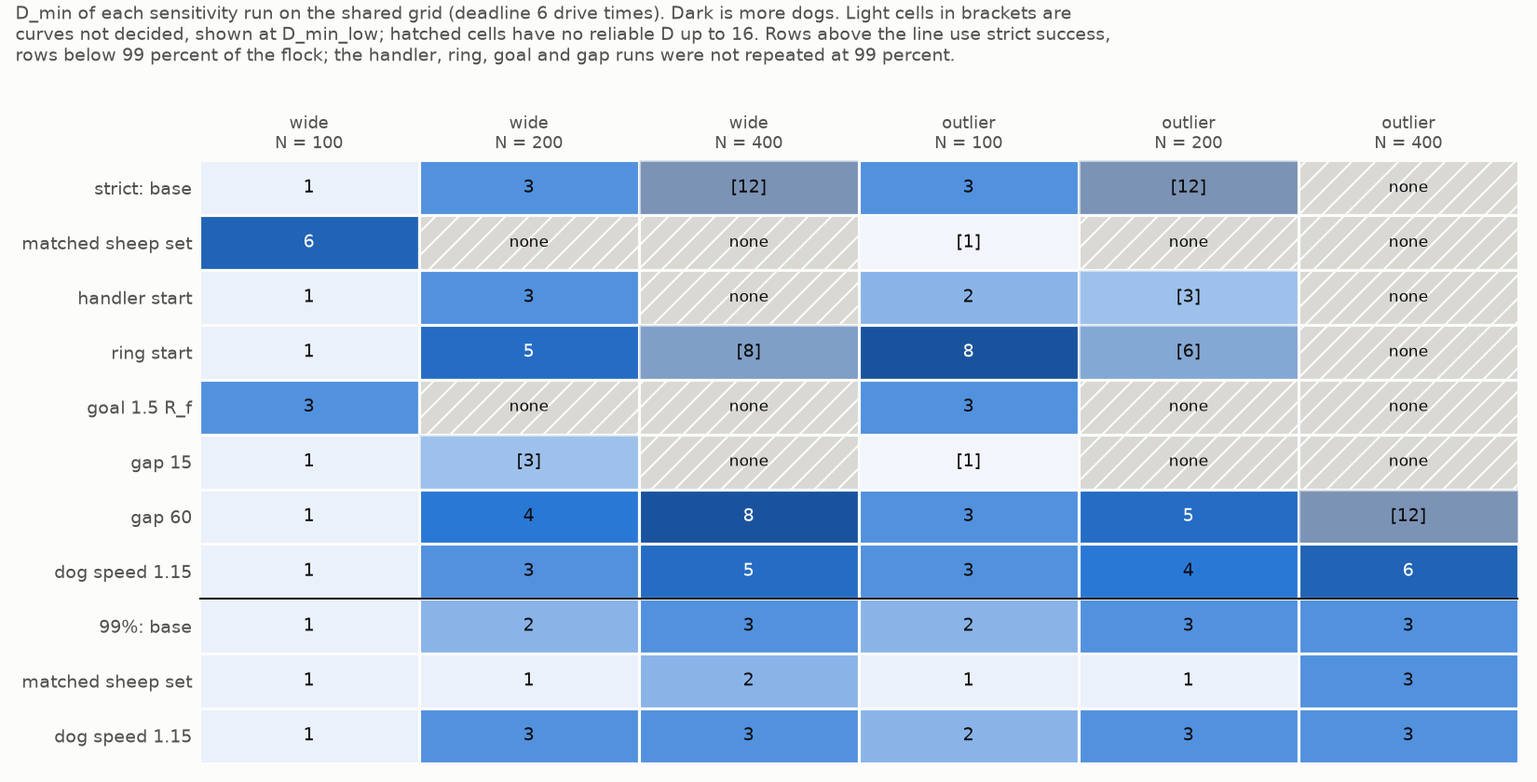
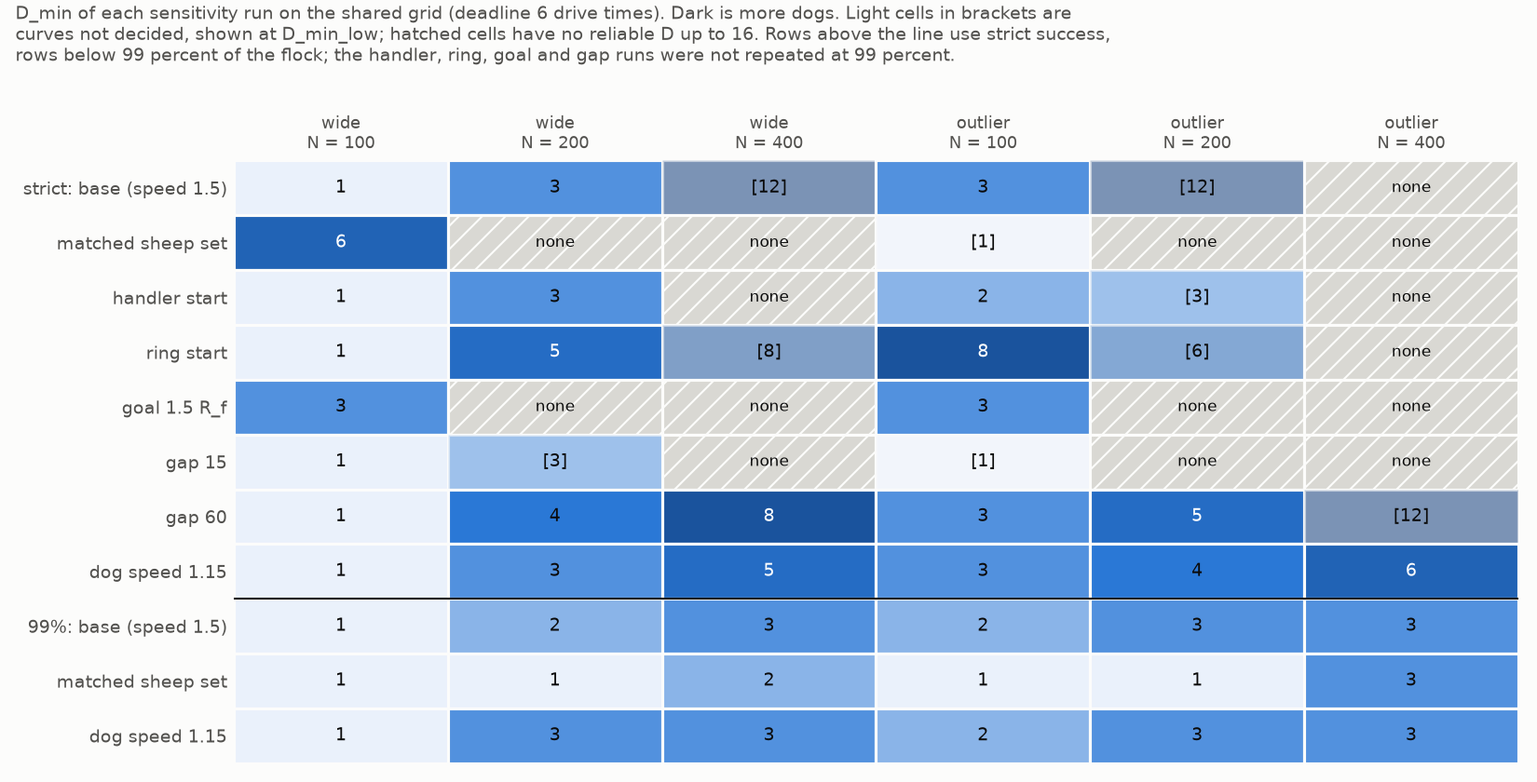
update readme

diff --git a/docs/report/d_min_report_vi.md b/docs/report/d_min_report_vi.md
@@ -1,0 +1,372 @@
+# Quy mô đội tối thiểu để lùa một bầy cừu mô phỏng: Sự phụ thuộc vào kích thước đàn, bố cục khởi tạo, thời hạn và tiêu chí thành công
+
+Dự án HerdSim. Bản thảo ngày 21-10-2026, được tổng hợp từ đề cương nghiên cứu và dữ liệu thực nghiệm ngày 20 và 21-10-2026.
+
+## Tóm tắt (Abstract)
+
+Cần bao nhiêu cá thể chó để lùa một bầy cừu vào mục tiêu trước một thời hạn xác định? Chúng tôi nghiên cứu câu hỏi này thông qua mô phỏng, sử dụng mô hình hành vi cừu của Strömbom et al. (2014) và phần mở rộng đa tác tử (multi-dog) cho thuật toán gom và lùa đàn; trong đó mỗi cá thể chó tự động phụ trách một cá thể cừu tản mác riêng biệt khi thu gom, và chiếm một vị trí xác định trên vòng cung phía sau bầy cừu khi lùa đàn. Chúng tôi định nghĩa $D_{\min}$ là quy mô đội nhỏ nhất có tỷ lệ thành công được chứng minh đạt ít nhất 0,90 theo khoảng tin cậy hai phía 99% Clopper–Pearson. Các hạt giống ngẫu nhiên (seeds) chỉ được bổ sung vào các ô thực nghiệm mà quyết định phân loại vẫn chưa ngã ngũ, tối đa 200 hạt giống mỗi ô. Chúng tôi lập bản đồ $D_{\min}$ trên các quy mô bầy cừu từ $N = 25$ đến $400$, bốn bố cục khởi tạo và các thời hạn bằng 12, 6 và 3 lần thời gian lùa tiêu chuẩn ($T_{\text{drive}}$), dưới hai tiêu chí thành công: nghiêm ngặt (toàn bộ 100% cừu vào mục tiêu) và nới lỏng (99% số cừu vào mục tiêu).
+
+Trong 17 giao thức thực nghiệm (112.785 lượt chạy, không có lỗi hệ thống), một bầy cừu co cụm (compact) chỉ cần đúng 1 chó ở mọi quy mô $N$ và mọi thời hạn. Trên các bố cục phân tán, $D_{\min} = 1$ đối với $N \le 50$ và tăng chậm theo $N$, với độ dốc log-log từ 0,2 đến 0,5 ở hầu hết các hàng thử nghiệm tại thời hạn $12\times$ và $6\times$, chỉ chạm mức 2 hoặc 3 chó khi $N = 400$ với thời hạn $12\times$. Việc siết chặt thời hạn từ $12\times$ xuống $3\times$ làm tăng $D_{\min}$ mạnh hơn cả việc tăng quy mô $N$ lên gấp bốn lần (bố cục phân tán rộng wide, $N = 400$: tăng từ 2 lên 6 chó). Dưới tiêu chí nghiêm ngặt 100%, sáu ô quy mô $N$ lớn không thể chốt được $D_{\min}$ nhưng lại được giải quyết dứt điểm dưới tiêu chí 99%; trong các lượt chạy thất bại, bầy cừu đã vào đến mục tiêu cùng toàn bộ đàn ngoại trừ một hoặc hai con rớt lại, và sau đó cả bầy bị lùa vọt qua và bật ra ngoài mục tiêu. Trên bố cục gồm ba cụm tách biệt (split), tỷ lệ thành công không tăng theo quy mô đội khi $N \ge 200$. Các lượt chạy thay đổi tham số cừu, kích thước mục tiêu, vị trí xuất phát hoặc tốc độ của chó có thể làm thay đổi giá trị tuyệt đối của $D_{\min}$ lên tới sáu lần, nhưng không có ô nào khi tăng $N$ lại làm giảm $D_{\min}$. Do đó, mối quan hệ phụ thuộc của $D_{\min}$ vào $N$, bố cục và thời hạn có tính chất vững chắc (robust) hơn nhiều so với giá trị số tuyệt đối của nó; và bất kỳ giá trị $D_{\min}$ nào được báo cáo đều bắt buộc phải gắn liền với thời hạn và tiêu chí thành công tương ứng.
+
+**Từ khóa:** chăn dắt bầy đàn (shepherding), điều khiển bầy đa tác tử (multi-agent herding), khả năng mở rộng (scalability), mô phỏng dựa trên tác tử (agent-based simulation), chó chăn cừu, quy mô đội tối thiểu, kiểm định giả thuyết tuần tự.
+
+---
+
+## 1. Giới thiệu (Introduction)
+
+Lùa cừu bằng chó chăn dắt là ví dụ kinh điển về việc một số ít tác tử bị kiểm soát điều hướng một lượng lớn các tác tử tự do. Bài toán tương tự xuất hiện trong kỹ thuật robot và điều khiển học như dẫn đường cho đàn robot tự hành (swarms), điều tiết đám đông hoặc xua đuổi động vật hoang dã khỏi các khu vực nhạy cảm (Strömbom et al. 2014; di Bernardo 2026). Strömbom et al. (2014) đã chứng minh rằng một cá thể chăn dắt đơn lẻ luân phiên giữa hai hành vi: thu gom cá thể cừu xa tâm bầy nhất và lùa cả đàn từ phía sau, có thể tái hiện chính xác chuyển động zíc-zắc của chó chăn cừu thực tế và dẫn dắt bầy đàn lên tới 150 cá thể khi mỗi con cừu bị hút về một tỷ lệ đủ lớn các cá thể khác trong đàn. Dữ liệu thực địa từ một chú chó Border Collie lùa 14 con cừu xác nhận rằng chó luôn làm việc sát phía sau những con cừu đi cuối và liên tục điều chỉnh theo bầy (Jadhav et al. 2024).
+
+Khi có nhiều hơn một cá thể chăn dắt, nhiều chiến lược điều khiển đã được đề xuất. Pierson và Schwager (2015) sử dụng hai hoặc nhiều robot chó bao vây một phần bầy đàn và chứng minh sự hội tụ đối với một con cừu đơn lẻ. Kubo et al. (2022) bổ sung lực đẩy giữa các cá thể chó khiến chúng tự tạo thành vòng tròn bao quanh bầy cừu, và báo cáo rằng nhiều chó hơn giúp dẫn đàn nhanh hơn và tin cậy hơn. Auletta et al. (2021) nghiên cứu các quy tắc cục bộ và chiến lược chọn mục tiêu cho các cá thể chăn dắt gom các mục tiêu ngẫu nhiên không có lực liên kết. Li et al. (2025) chứng minh việc chăn dắt khả thi ngay cả khi chỉ đo được góc phương vị (bearing-only), và Brown et al. (2025) mô hình hóa bài toán dưới dạng điều khiển tối ưu cho $m$ chó và $n$ cừu. Các nghiên cứu này cho thấy việc tăng số lượng chó có thể đem lại lợi ích, nhưng họ luôn cố định quy mô đội và không đặt câu hỏi một nhiệm vụ cụ thể đòi hỏi tối thiểu bao nhiêu cá thể chăn dắt.
+
+Hai nghiên cứu gần đây đã trực tiếp giải quyết câu hỏi này. Lama và di Bernardo (2024) nhận thấy số lượng cá thể chăn dắt tối thiểu $N^*$ để gom $M$ mục tiêu không liên kết tăng theo căn bậc hai của $M$ ($\sqrt{M}$), và dưới một mật độ mục tiêu tới hạn, con số này tăng nhanh hơn. Một bản thảo ẩn danh năm 2025, "Collective nudging that scales", đã đo lường số lượng chó tối thiểu để thu gom, duy trì và nhốt bầy cừu lên đến 400 con trong vòng 10.000 nhịp mô phỏng (ticks), và phát hiện sự gia tăng phi tuyến tính theo kích thước đàn cùng với hiện tượng sụt giảm tỷ lệ thành công khi sử dụng quá nhiều chó (anonymous 2025). Tuy nhiên, trong cả hai nghiên cứu, phân bố ban đầu, giới hạn thời gian và tiêu chí thành công đều bị đóng khung cố định. Chưa có công trình nào báo cáo kết quả này thay đổi ra sao khi thời gian cho phép co giãn, khi hình dạng ban đầu của bầy cừu biến thiên, hoặc khi tỷ lệ cừu bắt buộc phải đến đích thay đổi.
+
+Trong nghiên cứu này, chúng tôi đo lường $D_{\min}$ — quy mô đội nhỏ nhất đạt độ tin cậy — đối với bầy cừu Strömbom được lùa vào một mục tiêu hình tròn, đồng thời xử lý bố cục khởi tạo, thời hạn và tiêu chí thành công như các biến số độc lập bên cạnh quy mô đàn cừu. Các đóng góp chính gồm:
+
+1. Định nghĩa $D_{\min}$ dưới dạng một quyết định thống kê chặt chẽ, đi kèm cơ chế phân bổ hạt giống thích ứng (adaptive seed allocation) chỉ tập trung tính toán ở các ô chưa ngã ngũ và gắn nhãn rõ ràng các ô không thể quyết định.
+2. Bản đồ thực nghiệm $D_{\min}$ trên năm quy mô bầy đàn, bốn bố cục ban đầu và ba thời hạn, dưới hai tiêu chí thành công, cho mô hình cừu Strömbom và tầng điều phối đội đa tác tử mở rộng.
+3. Bằng chứng thực nghiệm cho thấy yêu cầu nghiêm ngặt (100% cừu vào đích) làm bế tắc nhiều ô thực nghiệm quy mô lớn chỉ vì một hoặc hai con cừu cuối cùng, cùng mô tả cơ chế hỏng hóc dẫn đến hiện tượng này.
+4. Phân tích độ nhạy trên các quy ước thiết lập mô phỏng vốn không có quy tắc thực tế (điểm xuất phát của chó, khoảng cách ban đầu, kích thước mục tiêu, bộ tham số cừu, tốc độ chó), tách biệt phần quy luật cốt lõi vững chắc khỏi các con số tuyệt đối.
+
+---
+
+## 2. Các công trình liên quan (Related Work)
+
+### 2.1 Một người chăn dắt
+Strömbom et al. (2014) mô hình hóa mỗi con cừu như một hạt tự hành bị hút về trọng tâm của $n$ láng giềng gần nhất, bị đẩy xa khỏi các láng giềng quá gần và bị xua đuổi bởi người chăn dắt. Người chăn dắt lùa bầy từ phía sau khi toàn bộ cừu nằm trong khoảng cách $f(N) = r_a N^{2/3}$ tính từ tâm bầy, và ngược lại sẽ chạy ra phía sau con cừu xa nhất để thu gom. Chuyển động đảo qua đảo lại thực tế xuất hiện tự nhiên từ việc chuyển đổi giữa hai chế độ này. Với lực hút toàn cục ($n = N - 1$), một người chăn luôn thành công với $N \le 150$; khi $n$ giảm xuống dưới $0,53 N$, tỷ lệ thành công giảm mạnh, và khi $n \ll N$ thì hầu như thất bại. Bài báo ghi nhận rằng các đàn lớn hơn thường cần nhiều người chăn dắt nhưng không đưa ra quy tắc phối hợp cho họ.
+
+### 2.2 Nhiều người chăn dắt
+Pierson và Schwager (2015) thiết kế bộ điều khiển phản hồi cho hai hoặc nhiều robot chó quy đổi hệ chó-cừu về mô hình unicycle. Kubo et al. (2022) dùng mô hình lực đẩy-hút trong đó mỗi chó đẩy con cừu xa mục tiêu nhất và đẩy lẫn nhau; lực đẩy giữa các chó giúp chúng tản đều quanh bầy, dẫn dắt thành công đàn lên tới 1.000 con. Auletta et al. (2021) so sánh chiến lược chọn mục tiêu tĩnh và động cho 2 người chăn dắt và 3 đến 60 mục tiêu không liên kết. Li et al. (2025) loại bỏ giả định biết vị trí tuyệt đối và điều khiển bầy chỉ bằng góc nhìn. Brown et al. (2025) tính toán quỹ đạo tối ưu cho số lượng nhỏ chó và cừu, nhận thấy các phương pháp số giải tích gặp khó khăn lớn khi khoảng cách giữa chó và cừu quá gần.
+
+### 2.3 Quy luật mở rộng quy mô đội chăn dắt
+Lama và di Bernardo (2024) nghiên cứu các tác tử chăn dắt có tầm cảm nhận hữu hạn và các mục tiêu không có liên kết bầy đàn. Số lượng chăn dắt tối thiểu $N^*$ để đưa tỷ lệ $\chi^* = 0,99$ số mục tiêu vào đích tăng theo $\sqrt{M}$ khi tầm cảm nhận vô hạn. Bản thảo ẩn danh 2025 dùng mô hình mật độ cục bộ với 7 láng giềng topo, trường có tường chắn, nhiệm vụ 3 giai đoạn (thu gom, giữ chân 800 nhịp, thoát qua cổng) và thành công khi toàn bộ cừu qua cổng trong 10.000 nhịp. Công trình này báo cáo 1 chó thành công tới 100 cừu, 3 chó ở 150 cừu, 20 chó ở 200 cừu và 35 chó ở 400 cừu để đạt tỷ lệ thành công 90%; quá nhiều chó làm giảm thành công ở đàn nhỏ.
+
+Bảng 1 tóm tắt các nghiên cứu tiêu biểu so với công trình hiện tại:
+
+| Nghiên cứu | Mô hình cừu | Quy tắc chăn dắt | Quy mô bầy cừu $N$ | Quy mô đội $D$ | Tiêu chí thành công | Khảo sát đội tối thiểu |
+|---|---|---|---|---|---|---|
+| Strömbom et al. 2014 | Hút-đẩy, $n$ láng giềng | Thu gom hoặc lùa | 2 đến 150 | 1 | Tâm đàn gần đích, 8.000 bước | Không |
+| Pierson & Schwager 2015 | Trường thế năng | Bao vây một phần | 1 đến 10 | 2 đến 3 | Hội tụ về vùng mục tiêu | Không |
+| Kubo et al. 2022 | Mô hình lực, trường nhìn | Đẩy con xa đích nhất, đẩy giữa chó | Đến 1.000 | 1 đến 5 | Toàn bộ cừu vào đích | Không |
+| Lama & di Bernardo 2024 | Chuyển động Brown, không liên kết | Đuổi con xa đích nhất | Đa dạng | Đa dạng | 99% mục tiêu vào đích | Có, $N^* \sim \sqrt{M}$ |
+| Bản thảo ẩn danh 2025 | Mật độ cục bộ, 7 láng giềng | Gom, lùa trên cung, tuần tra | 5 đến 400 | 1 đến 35 | Toàn bộ qua cổng, 10.000 nhịp | Có, thời gian cố định |
+| **Nghiên cứu này** | **Strömbom, $n = N - 1$** | **Gom hoặc lùa, có tầng phối hợp đội** | **25 đến 400** | **1 đến 24** | **100% hoặc 99% vào đích trước thời hạn** | **Có, xem thời hạn là một biến số** |
+
+---
+
+## 3. Câu hỏi nghiên cứu và Định nghĩa $D_{\min}$
+
+Chúng tôi đặt câu hỏi: Cần bao nhiêu cá thể chó để lùa một bầy cừu vào mục tiêu một cách tin cậy trước thời hạn, và con số đó phụ thuộc thế nào vào bầy cừu và nhiệm vụ? Cụ thể:
+
+- **RQ1**: $D_{\min}$ tăng trưởng như thế nào theo quy mô bầy đàn $N$, đối với từng bố cục khởi tạo và thời hạn?
+- **RQ2**: Ở cùng một thời hạn, yếu tố nào tác động mạnh hơn đến $D_{\min}$: bố cục khởi tạo hay quy mô đàn $N$?
+- **RQ3**: $D_{\min}$ phụ thuộc vào thời hạn hoàn thành như thế nào?
+- **RQ4**: Tiêu chí thành công làm thay đổi $D_{\min}$ ra sao?
+- **RQ5**: Những kết luận nào từ RQ1 đến RQ4 vẫn đứng vững trước các thay đổi về quy ước thiết lập mô phỏng?
+
+Một **ô thực nghiệm (cell)** là sự kết hợp của một quy tắc chăn dắt, bố cục khởi tạo, quy mô $N$, thời hạn và kích thước đội $D$. Một lượt chạy thành công khi tỷ lệ cừu yêu cầu nằm trọn trong mục tiêu tại một nhịp thời gian trước khi hết hạn. Với một ô có $k$ lượt thành công trên $n$ lượt thử, gọi $[L, U]$ là khoảng tin cậy hai phía 99% Clopper–Pearson của tỷ lệ thành công. Với ngưỡng $\theta = 0,90$, ô thực nghiệm được phân loại:
+
+- **Tin cậy (reliable)** khi $L \ge \theta$,
+- **Không tin cậy (unreliable)** khi $U < \theta$,
+- **Chưa ngã ngũ (undecided)** trong các trường hợp còn lại.
+
+Trên một đường cong thực nghiệm quét qua các giá trị $D$ ở một cấu hình cố định:
+- $D_{\min}$: giá trị $D$ nhỏ nhất có ô đạt mức tin cậy ($L \ge 0,90$).
+- $D_{\min\_\text{low}}$: giá trị $D$ nhỏ nhất có cận trên $U$ chạm tới $\theta = 0,90$.
+
+Khi đường cong đã ngã ngũ, $D_{\min\_\text{low}} = D_{\min}$. Khi $D_{\min}$ đã xuất hiện nhưng tồn tại giá trị $D$ nhỏ hơn vẫn chưa ngã ngũ, giá trị tối thiểu thực tế nằm trong khoảng $[D_{\min\_\text{low}}, D_{\min}]$, ký hiệu là `[D_min_low]`. Khi không có giá trị $D$ nào đạt tin cậy trên lưới thử nghiệm, ký hiệu là `none`. Một ô tin cậy đòi hỏi tối thiểu 51 trận thắng liên tiếp ($0,9^{51} < 0,005$), và với kích thước lô 10 hạt giống, con số này được làm tròn lên 60 lượt thử.
+
+Thời hạn hoàn thành là một phần không thể tách rời của bài toán. Nếu cho thời gian vô hạn, một chú chó duy nhất cuối cùng cũng sẽ lùa được hầu hết mọi bầy cừu có tính liên kết. Chúng tôi biểu diễn thời hạn dưới dạng bội số $m$ của thời gian lùa tiêu chuẩn ($T_{\text{drive}}$), định nghĩa bằng khoảng cách lùa chia cho tốc độ tối đa của cừu. Bầy cừu co cụm được 1 chó lùa ngay từ nhịp đầu tiên sẽ đến đích trong trung vị 1,45 đến 1,74 $T_{\text{drive}}$ ($N = 25$ đến $400$). Do đó, $m$ nhỏ hơn 1,5 là bất khả thi, và các giá trị $m$ lớn hơn sẽ đo lường xem cần bao nhiêu chó để vừa gom đàn phân tán vừa đưa về đích kịp thời.
+
+---
+
+## 4. Mô hình (Model)
+
+### 4.1 Cừu
+Cừu tuân theo mô hình Strömbom et al. (2014). Cừu cách xa mọi chó hơn khoảng cách đe dọa $r_s$ sẽ gặm cỏ: đứng yên hoặc bước một bước ngẫu nhiên độ dài $\delta$ với xác suất $p$. Cừu nằm trong bán kính $r_s$ của bất kỳ chó nào sẽ chuyển hướng theo vector:
+
+$$\mathbf{H}' = h \mathbf{H} + c \mathbf{C} + \rho_a \mathbf{R}_a + \rho_s \mathbf{R}_s + e \mathbf{\epsilon} \tag{1}$$
+
+trong đó mỗi số hạng là một vector đơn vị: $\mathbf{H}$ là hướng di chuyển trước đó, $\mathbf{C}$ hướng về tâm khối của $n$ láng giềng gần nhất, $\mathbf{R}_a$ đẩy xa khỏi các láng giềng gần hơn khoảng cách $r_a$, $\mathbf{R}_s$ đẩy xa khỏi các chó trong phạm vi $r_s$, và $\mathbf{\epsilon}$ là nhiễu góc ngẫu nhiên. Cừu sau đó di chuyển một đoạn $\delta$ theo hướng $\mathbf{H}'$.
+
+**Hòa trộn lực đẩy đa tác tử (Push Blending):** Khi có nhiều chó trong tầm $r_s$, chúng tôi cộng các vector đẩy đơn vị từ tất cả các chó lại rồi chuẩn hóa về độ dài đơn vị:
+
+$$\mathbf{S}_i = \frac{\sum_{j \in \text{threat}} \frac{\mathbf{x}_i - \mathbf{y}_j}{\lVert \mathbf{x}_i - \mathbf{y}_j \rVert}}{\left\lVert \sum_{j \in \text{threat}} \frac{\mathbf{x}_i - \mathbf{y}_j}{\lVert \mathbf{x}_i - \mathbf{y}_j \rVert} \right\rVert}$$
+
+Điều này bảo đảm tính chân thực sinh học: nhiều chó cùng dồn ép một con cừu sẽ tạo áp lực từ hướng trung bình mà không gây ra gia tốc siêu vật lý phi thực tế.
+
+### 4.2 Chó
+Với 1 chó, hành vi tuân thủ chính xác quy tắc của Strömbom et al. (2014). Chó chuyển sang chế độ **thu gom (collect)** khi có bất kỳ con cừu nào cách tâm bầy xa hơn $f(N) = r_a N^{2/3}$, nhắm vào điểm cách con cừu xa nhất một đoạn $r_a$ về phía đối diện tâm bầy. Ngược lại, chó chuyển sang chế độ **lùa đàn (drive)**, nhắm vào điểm cách tâm bầy một đoạn $r_a \sqrt{N}$ về phía đối diện mục tiêu. Chó di chuyển với vận tốc $\delta_s$ và đứng yên nếu cách bất kỳ con cừu nào dưới $3 r_a$.
+
+Với nhiều chó ($D > 1$), tầng phối hợp đội phân công nhiệm vụ chuyên biệt (`strombom_multi`):
+- **Khi thu gom**: $D$ cá thể cừu tản mác xa nhất được ghép cặp với $D$ cá thể chó thông qua thuật toán gán tuyến tính tối thiểu hóa tổng quãng đường di chuyển (linear sum assignment). Chó thừa sẽ tham gia hỗ trợ lùa đàn.
+- **Khi lùa đàn**: Các chó dàn hàng trên một vòng cung phía sau bầy cừu, trải đều trên góc mở bao trọn bề rộng bầy đàn, giữ nguyên thứ tự góc để tuyệt đối không cắt chéo đường đi của nhau. Mỗi cá thể chó đều nắm rõ tọa độ của mọi con cừu và các đồng đội khác.
+
+### 4.3 Mô hình cừu thứ hai (Kubo et al. 2022)
+Để đối chứng, chúng tôi chạy thử mô hình lực liên tục của Kubo et al. (2022). Mô hình này không có nhiễu ngẫu nhiên nên các hạt giống chỉ thay đổi vị trí khởi đầu. Do mô hình này nén bầy cừu về một bán kính cố định, chúng tôi thử nghiệm đến $N = 100$.
+
+### 4.4 Các tham số
+Bảng 2 liệt kê các tham số của mô hình Strömbom:
+
+| Ký hiệu | Giá trị | Ý nghĩa vật lý |
+|---|---|---|
+| $r_a$ | 2 | Khoảng cách tương tác cừu-cừu; thiết lập khoảng cách lùi của chó |
+| $\rho_a$ | 2 | Trọng số lực đẩy tránh va chạm giữa các cừu láng giềng |
+| $c$ | 1.05 | Trọng số lực hút về tâm bầy cừu láng giềng |
+| $\rho_s$ | 1 | Trọng số lực đẩy hoảng sợ né tránh chó chăn dắt |
+| $h$ | 0.5 | Trọng số quán tính duy trì hướng di chuyển trước |
+| $e$ | 0.3 | Trọng số nhiễu góc ngẫu nhiên (áp dụng cho cả cừu và chó) |
+| $\delta$ | 1 | Độ dài bước di chuyển của cừu trong 1 nhịp (1 m/s) |
+| $p$ | 0.05 | Xác suất cừu bước ngẫu nhiên khi gặm cỏ |
+| $r_s$ | 65 | Bán kính đe dọa (cừu bắt đầu phản ứng hoảng sợ khi chó tiến vào) |
+| $n$ | $N - 1$ | Số lượng láng giềng trong lực hút bầy (hút toàn cục) |
+| $\delta_s$ | 1.5 | Bước di chuyển của chó trong 1 nhịp (tốc độ $v_{\text{dog}} = 1.5$ m/s) |
+| - | $3 r_a$ | Chó đứng yên nếu tiến sát cừu trong cự ly này để tránh làm vỡ đàn |
+
+Strömbom et al. (2014) cũng cung cấp bộ tham số thực địa GPS ($r_a = 1$, $e = 0,1$, $r_s = 75$), được chúng tôi đưa vào phân tích độ nhạy.
+
+---
+
+## 5. Thiết kế thực nghiệm (Experimental Design)
+
+### 5.1 Nhiệm vụ và Hiệu chuẩn bán kính bầy $R_f(N)$
+Bầy cừu xuất phát quanh một điểm tâm và phải được lùa vào mục tiêu hình tròn. Nhằm bảo đảm **tính bất biến theo quy mô (scale invariance)**, mọi kích thước hình học đều được neo theo bán kính bầy cân bằng $R_f(N)$, đo đạc thực nghiệm qua bước hiệu chuẩn (calibration): 1 chó lùa đàn co cụm hướng tới một mục tiêu vô tận trong 300 s, và $R_f$ là $\sqrt{2}$ lần bán kính hiệu dụng RMS trong 90 s cuối.
+
+Bán kính mục tiêu được đặt cố định là $R_{\text{goal}} = 1,9 R_f(N)$. Khoảng cách lùa đàn từ tâm xuất phát đến tâm mục tiêu là:
+
+$$l = \max(13 R_f(N), 80, \text{reach} + 1,9 R_f + R_f) \tag{2}$$
+
+trong đó `reach` là khoảng cách xa nhất mà một con cừu có thể xuất hiện trong bố cục ban đầu. Đấu trường hoàn toàn không có tường phản xạ (open boundary) để tránh việc tường biên trở thành công cụ gom cừu nhân tạo làm sai lệch kết quả.
+
+### 5.2 Bố cục khởi tạo bầy cừu
+Bảng 3 định nghĩa bốn bố cục xuất phát (định cỡ bằng khoảng cách thu gom $L = f(N) = 2 N^{2/3}$):
+
+| Bố cục | Hình dạng không gian |
+|---|---|
+| **`compact`** | Phân phối Gauss, $\sigma = 0,5 R_f$, cắt cụt ở $3\sigma$. Toàn bộ cừu nằm trong $f(N)$; chó vào thẳng chế độ lùa. |
+| **`wide`** | Phân phối Gauss rộng, $\sigma = 0,5 L$, cắt cụt ở $3\sigma$. Cừu phân tán rộng, đòi hỏi quét gom vùng biên. |
+| **`split`** | Chia đều thành 3 cụm co cụm (2 cụm nếu $N < 12$) đặt đối xứng trên đường tròn bán kính $L$. |
+| **`outlier_rich`** | 80% cừu nằm trong lõi co cụm, 20% là các cá thể tản mác rải rác từ $1,1$ đến $1,6 L$. |
+
+### 5.3 Điểm xuất phát của chó (`dog_start`)
+- **`arcs` (mặc định)**: Chó đứng trên các nửa đường tròn phía sau bầy cừu, cách biên bầy 30 đơn vị, cách đều nhau tối thiểu 5 đơn vị.
+- **`ring`**: Chó phân bố đều trên đường tròn $360^\circ$ bao quanh bầy cừu.
+- **`handler`**: Toàn bộ chó xuất phát từ một điểm duy nhất phía sau bầy cừu (mô phỏng việc thả chó từ trạm của người điều khiển).
+
+### 5.4 Thời hạn (`deadline`)
+Thời hạn được tính theo $T = m l / \delta$ giây với $m \in \{12, 6, 3\}$. Với $N = 200$, thời gian lùa tiêu chuẩn $T_{\text{drive}} \approx 140$ s, tương ứng các thời hạn là 1.680 s ($12\times$), 839 s ($6\times$) và 420 s ($3\times$).
+
+### 5.5 Tiêu chí thành công
+- **Nghiêm ngặt (Strict 100%)**: Toàn bộ 100% cừu phải nằm trong mục tiêu tại một nhịp thời gian trước khi hết hạn.
+- **Ngưỡng 99% ($f_{99}$)**: Ít nhất $\lceil 0,99 N \rceil$ số cừu phải nằm trong mục tiêu. Với $N = 25$ và $50$, $\lceil 0,99 N \rceil = N$ nên hai tiêu chí trùng nhau; với $N = 100, 200, 400$, tiêu chí này cho phép sót lại lần lượt 1, 2 và 4 con bên ngoài.
+
+### 5.6 Cơ chế kiểm định tuần tự và Phân bổ hạt giống thích ứng
+Mỗi hạt giống $i$ sinh ra ba chuỗi ngẫu nhiên độc lập (bố cục, nhiễu cừu, nhiễu chó) dựa trên `master_seed + i` (2026 + $i$). Mỗi ô ban đầu nhận 1 lô 10 hạt giống. Sau mỗi vòng, chỉ các ô chưa ngã ngũ mới nhận thêm lô 10 hạt giống (tối đa 200). Điểm chia đôi (midpoint) được tự động chèn vào giữa các vùng hành vi khác biệt, và các ô trên ngưỡng bão hòa có độ trùng lặp hành vi cao (mean dog overlap $\ge 0,90$) sẽ bị cắt tỉa (pruning) để tiết kiệm năng lượng tính toán.
+
+### 5.7 Các giao thức thực nghiệm
+17 giao thức được thực hiện: 6 giao thức chính (quét $m \in \{12, 6, 3\}$ dưới tiêu chí strict và 99%), 1 giao thức Kubo, và 10 giao thức kiểm tra độ nhạy (đối chiếu điểm xuất phát handler/ring, khoảng cách gap 15/60, bán kính mục tiêu 1.5 $R_f$, bộ tham số thực địa GPS, và tốc độ chó $v_{\text{dog}} = 1,15$).
+
+---
+
+## 6. Kết quả thực nghiệm (Results)
+
+17 giao thức đã hoàn thành 112.785 lượt mô phỏng mà không có bất kỳ lỗi nào, mất khoảng 5 giờ trên 20 tiến trình song song.
+
+### 6.1 Một chú chó là đủ cho bầy co cụm
+Trên bố cục `compact`, $D_{\min} = 1$ ở mọi quy mô $N$ từ 25 đến 400, ở mọi thời hạn và dưới cả hai tiêu chí thành công. Thêm chó không làm giảm thời gian hoàn thành: các cá thể chó thừa chỉ lặp lại đường đi của nhau (độ trùng lặp đạt 84% đến 93%). Mô hình Kubo cũng xác nhận $D_{\min} = 1$ cho bầy co cụm tại $N = 25, 50, 100$.
+
+### 6.2 Bản đồ $D_{\min}$ qua các bố cục, quy mô đàn và thời hạn
+Bảng 5 trình bày giá trị $D_{\min}$ (Strict / 99%):
+
+| Thời hạn | Bố cục | $N = 25$ | $N = 50$ | $N = 100$ | $N = 200$ | $N = 400$ |
+|---|---|---|---|---|---|---|
+| **$12\times$** | wide | 1 / 1 | 1 / 1 | 1 / 1 | 2 / 2 | 3 / 2 |
+| **$12\times$** | split | 1 / 1 | 1 / 1 | 1 / 1 | 2 / 1 | 3 / 2 |
+| **$12\times$** | outlier_rich | 1 / 1 | 1 / 1 | 3 / 2 | 2 / 2 | 3 / 2 |
+| **$6\times$** | wide | 1 / 1 | 1 / 1 | 1 / 1 | 3 / 2 | [12] / 3 |
+| **$6\times$** | split | 1 / 1 | 1 / 1 | 1 / 1 | none / [1] | none / [6] |
+| **$6\times$** | outlier_rich | 1 / 1 | 1 / 1 | 3 / 2 | [12] / 3 | none / 3 |
+| **$3\times$** | wide | 1 / 1 | 1 / 1 | 3 / 2 | none / 3 | none / 6 |
+| **$3\times$** | split | 1 / 1 | 1 / 1 | 1 / 1 | none / none | none / none |
+| **$3\times$** | outlier_rich | 1 / 1 | 1 / 1 | 8 / 2 | none / 12 | none / [6] |
+
+*Ghi chú: Bố cục compact đạt 1 / 1 ở mọi ô và được lược bỏ khỏi bảng.*
+
+Mọi bố cục đều chỉ cần 1 chó khi $N \le 50$. Với $N = 200$ và $400$, ở thời hạn $12\times$ và $6\times$, đội chó chỉ cần từ 1 đến 3 cá thể. Khi thời hạn bị ép xuống $3\times$, $D_{\min}$ tăng vọt lên 6 (wide, $N = 400$) hoặc 12 (outlier_rich, $N = 200$).
+
+### 6.3 Tốc độ tăng trưởng theo $N$ (RQ1)
+Độ dốc $\log_2 D_{\min}$ theo $\log_2 N$ trên các bố cục phân tán:
+- Ở thời hạn $12\times$ và $6\times$: độ dốc chỉ từ 0,2 đến 0,5 (tăng gấp đôi bầy cừu chỉ đòi hỏi tăng thêm 20% đến 50% số lượng chó).
+- Ở thời hạn gấp gáp $3\times$: độ dốc tăng lên 0,6 đến 1,5.
+
+### 6.4 Bố cục ban đầu so với Quy mô đàn (RQ2)
+Quy mô đàn $N$ dịch chuyển $D_{\min}$ nhiều hơn so với hình dạng bố cục ban đầu. Phần lớn tác động của bố cục thực chất là sự khác biệt nhị phân giữa bố cục co cụm (luôn cần 1 chó) và ba bố cục phân tán còn lại.
+
+### 6.5 Tác động của Thời hạn (RQ3)
+Rút ngắn thời hạn từ $12\times$ xuống $3\times$ làm tăng $D_{\min}$ trên bố cục wide từ 2 lên 6 chó ($N = 400$). Tác động của thời hạn mang tính phi tuyến: từ $12\times$ sang $6\times$, $D_{\min}$ chỉ thay đổi tối đa 1 chó, nhưng bước nhảy vọt xảy ra khốc liệt giữa $6\times$ và $3\times$.
+
+### 6.6 Tiêu chí thành công và "Hiệu ứng cá thể rớt lại" (RQ4)
+Giá trị $D_{\min}$ dưới tiêu chí 99% không bao giờ lớn hơn tiêu chí nghiêm ngặt 100%, và nhỏ hơn từ 1 đến 6 chó ở 9 ô thực nghiệm quy mô lớn. Đặc biệt, có 6 ô hoàn toàn thất bại (`none`) dưới tiêu chí nghiêm ngặt nhưng lại đạt $D_{\min}$ rất gọn gàng dưới tiêu chí 99%.
+
+**Cơ chế hỏng hóc (The Straggler Effect):** Phân tích chi tiết các lượt chạy thất bại ($N = 400, D = 8$ đến 16) chỉ ra rằng: 386 đến 399 con cừu đã vào gọn trong đích từ rất sớm. Tuy nhiên, khi toàn bộ bầy chó dồn lên phía trước mục tiêu để hỗ trợ, một hoặc hai con cừu lạc đàn rớt lại phía sau kích hoạt hành vi truy đuổi; đàn chó vô tình lùa bầy cừu chính đang ở trong mục tiêu vọt ra ngoài. Dưới tiêu chí 99%, nhiệm vụ đã hoàn thành ngay ở nhịp lùa đầu tiên.
+
+### 6.7 Hiện tượng thêm chó làm giảm hiệu quả trên bố cục cụm rời (split)
+Trên bố cục `split` ở $N \ge 200$, tỷ lệ thành công không tăng theo số lượng chó. Tại $N = 200$ thời hạn $6\times$, tỷ lệ thành công đạt 0,92 (1 chó), 0,95 (2 chó), nhưng tụt xuống 0,60 đến 0,90 khi dùng 4 đến 24 chó; thời gian hoàn thành cũng bị kéo dài từ 425 s lên 700 s. Việc phân bổ chó vào các cụm riêng lẻ dễ gây xung đột và làm tán loạn các cụm trước khi gom được về tâm.
+
+### 6.8 Phân tích độ nhạy (RQ5)
+Bảng 8 tóm tắt kết quả phân tích độ nhạy ($D_{\min}$ Base / Biến thể tại thời hạn $6\times$):
+
+| Tiêu chí | Biến thể | wide 100 | wide 200 | wide 400 | outlier 100 | outlier 200 | outlier 400 |
+|---|---|---|---|---|---|---|---|
+| **strict** | Bộ cừu thực địa GPS | 1 / 6 | 3 / none | [12] / none | 3 / [1] | [12] / none | none / none |
+| **strict** | Xuất phát trạm handler | 1 / 1 | 3 / 3 | [12] / none | 3 / 2 | [12] / [3] | none / none |
+| **strict** | Xuất phát vòng tròn ring | 1 / 1 | 3 / 5 | [12] / [8] | 3 / 8 | [12] / [6] | none / none |
+| **strict** | Mục tiêu hẹp $1,5 R_f$ | 1 / 3 | 3 / none | [12] / none | 3 / 3 | [12] / none | none / none |
+| **strict** | Cự ly lùi gap 15 | 1 / 1 | 3 / [3] | [12] / none | 3 / [1] | [12] / none | none / none |
+| **strict** | Cự ly lùi gap 60 | 1 / 1 | 3 / 4 | [12] / 8 | 3 / 3 | [12] / 5 | none / [12] |
+| **strict** | Chó chạy chậm 1.15 | 1 / 1 | 3 / 3 | [12] / 5 | 3 / 3 | [12] / 4 | none / 6 |
+| **99%** | Bộ cừu thực địa GPS | 1 / 1 | 2 / 1 | 3 / 2 | 2 / 1 | 3 / 1 | 3 / 3 |
+| **99%** | Chó chạy chậm 1.15 | 1 / 1 | 2 / 3 | 3 / 3 | 2 / 2 | 3 / 3 | 3 / 3 |
+
+- **Tốc độ chó ($v_{\text{dog}} = 1,15$ vs $1,5$):** Chó chạy chậm hơn đạt thành tích vượt trội dưới tiêu chí nghiêm ngặt trên đàn lớn ($N = 400$, wide: $D_{\min} = 5$ so với thất bại ở tốc độ 1.5; outlier: $D_{\min} = 6$ so với thất bại). Chó chậm di chuyển điềm tĩnh hơn, không tạo ra xung lực đẩy đàn cừu vọt qua vòng đích.
+- **Trạm xuất phát:** Xuất phát tập trung tại trạm `handler` cần ít chó hơn so với bao vây `ring` ở quy mô nhỏ và vừa, vì chó xuất phát từ vòng tròn ở phía mục tiêu vô tình dọa cừu chạy ngược hướng.
+
+---
+
+## 7. Thảo luận (Discussion)
+
+### 7.1 So sánh với các nghiên cứu trước
+Kết quả $D_{\min}$ của chúng tôi tăng trưởng chậm hơn nhiều so với bản thảo ẩn danh 2025 (nơi 1 chó thất bại ở 150 cừu và cần 20 chó ở 200 cừu; trong khi chúng tôi chỉ cần 2 đến 3 chó ở $N = 400$). Sự khác biệt cốt lõi nằm ở cơ chế hút bầy đàn: mô hình Strömbom duy trì lực hút toàn cục ($n = N - 1$), giúp bầy cừu tự động co cụm lại khi chó tiếp cận, giảm tải rất lớn cho đội chăn dắt.
+
+### 7.2 Thời hạn là một yếu tố then chốt
+Các nghiên cứu trước đây luôn cố định thời gian. Kết quả của chúng tôi chứng minh rằng thời hạn dịch chuyển $D_{\min}$ mạnh mẽ không kém gì quy mô bầy đàn. Về mặt thực tiễn, việc bổ sung thêm chó chủ yếu có tác dụng "mua thời gian" để thu gom bầy đàn phân tán.
+
+### 7.3 Bản chất đo lường của tiêu chí thành công
+Tiêu chí 100% đo lường khả năng đưa toàn bộ đàn vào đích và giữ yên tại đó trong 1 nhịp, trong khi tiêu chí 99% đo lường năng lực dẫn dắt dòng chảy bầy đàn. Sự khác biệt này giải thích tại sao các thuật toán chăn dắt thực tế cần bổ sung một trạng thái giữ đàn chuyên biệt (holding) khi đàn đã vào đích.
+
+### 7.4 Những kết luận vững chắc
+Mặc dù giá trị số tuyệt đối của $D_{\min}$ có thể thay đổi tùy thuộc vào các tham số mô phỏng, bốn quy luật cốt lõi luôn bất biến:
+1. Bầy cừu co cụm chỉ cần duy nhất 1 chó;
+2. Trên bầy phân tán, $D_{\min}$ tăng trưởng dưới tuyến tính (sub-linear, độ dốc 0,2–0,5) theo quy mô $N$;
+3. Thời hạn là yếu tố chi phối mạnh mẽ tương đương quy mô bầy;
+4. Tiêu chí nghiêm ngặt 100% làm thổi phồng số lượng chó cần thiết ở đàn lớn do hiệu ứng cá thể rớt lại.
+
+---
+
+## 8. Giới hạn nghiên cứu (Limitations)
+
+1. Nghiên cứu tập trung vào quy tắc `strombom_multi` trên mô hình cừu Strömbom;
+2. Chưa mô phỏng rào chắn thực tế (chuồng có cổng hẹp và hàng rào vật lý giữ cừu);
+3. Khoảng cách phản xạ đe dọa $r_s$ chưa có dữ liệu đo đạc chính xác trên cừu sống thực địa;
+4. Chưa giải thích triệt để nguyên nhân suy giảm hiệu quả trên bố cục `split` ở $N \ge 200$.
+
+---
+
+## 9. Kết luận và Hướng phát triển (Conclusions and Future Work)
+
+Nghiên cứu khẳng định rằng việc chăn dắt đa tác tử có khả năng mở rộng quy mô vượt bậc đối với các bầy đàn có tính liên kết: một đội ngũ nhỏ từ 2 đến 6 cá thể chó có thể dẫn dắt hiệu quả hàng trăm cá thể cừu nếu được phối hợp phân công tối ưu.
+
+Các hướng phát triển tiếp theo bao gồm: thử nghiệm quy tắc không phối hợp (FAT) trên diện rộng, kiểm tra các biến thể 99% cho các hình thức xuất phát, bổ sung giai đoạn giữ đàn (holding phase) tường minh khi vào đích, và khảo sát sự thay đổi của tham số láng giềng $n$.
+
+---
+
+## Tính khả dụng của Dữ liệu và Mã nguồn (Data and Code Availability)
+
+Toàn bộ 112.785 lượt thử nghiệm được lưu trữ theo từng giao thức trong thư mục `results/` của kho mã nguồn HerdSim. Các bảng biểu và hình vẽ có thể tái lập hoàn toàn thông qua các lệnh CLI:
+
+```bash
+make install && make check && make bench
+uv run cli/run_queue.py --workers 20                 # Chạy toàn bộ các giao thức
+uv run cli/dmin_tables.py record                     # Bảng Phụ lục B
+uv run cli/dmin_tables.py dmin dmin_m12 dmin_m6 dmin_m3 dmin_f99_m12 dmin_f99_m6 dmin_f99_m3
+uv run cli/dmin_tables.py growth dmin_m12 dmin_m6 dmin_m3
+uv run cli/dmin_tables.py compare dmin_s_matched dmin_s_handler --base dmin_s_base
+uv run python docs/science/design_version2/figures/make_figures.py
+uv run python docs/science/design_version2/figures/make_result_figures.py
+```
+
+---
+
+## Tài liệu tham khảo (References)
+
+- anonymous (2025). Collective nudging that scales. How many dogs do I need to herd sheep? Manuscript.
+- Auletta F, Fiore D, Richardson MJ, di Bernardo M (2021). Herding stochastic autonomous agents via local control rules and online global target selection strategies. arXiv:2010.00386.
+- Brown D, Garrity T, Perkins D, Hunter D, Pochman W (2025). Optimal control strategies for multi-agent sheep herding. arXiv:2510.25115.
+- di Bernardo M (2026). Multi-scale control of large agent populations: from density dynamics to individual actuation. arXiv:2603.15160.
+- Jadhav V, Pasqua R, Zanon C, Roy M, Tredan G, Bon R, Guttal V, Theraulaz G (2024). Collective responses of flocking sheep (Ovis aries) to a herding dog (border collie). Communications Biology. doi:10.1038/s42003-024-07245-8.
+- Kubo M, Tashiro M, Sato H, Yamaguchi A (2022). Herd guidance by multiple sheepdog agents with repulsive force. Artificial Life and Robotics 27: 416-427. doi:10.1007/s10015-021-00726-7.
+- Lama A, di Bernardo M (2024). Shepherding control and herdability in complex multiagent systems. arXiv:2307.16797.
+- Li A, Ogura M, Wakamiya N (2025). Swarm shepherding using bearing-only measurements. Phil. Trans. R. Soc. A 383: 20240145. doi:10.1098/rsta.2024.0145.
+- Pierson A, Schwager M (2015). Bio-inspired non-cooperative multi-robot herding. IEEE International Conference on Robotics and Automation (ICRA).
+- Strömbom D, Mann RP, Wilson AM, Hailes S, Morton AJ, Sumpter DJT, King AJ (2014). Solving the shepherding problem: heuristics for herding autonomous, interacting agents. J. R. Soc. Interface 11: 20140719. doi:10.1098/rsif.2014.0719.
+
+---
+
+## Phụ lục A. Các hình vẽ bổ sung (Appendix A. Supplementary Figures)
+
+- **Hình S1 (Quy tắc cừu)**: Mô hình cừu Strömbom. Trái: một cừu trong cự ly phản xạ với 5 thành phần của phương trình (1). Phải: cừu ngoài bán kính $r_s$ gặm cỏ, cừu trong bán kính $r_s$ bỏ chạy.
+- **Hình S2 (Người chăn dắt đơn lẻ)**: Trái: cừu tản mác ngoài $f(N)$, chó di chuyển đến điểm thu gom $P_c$. Phải: bầy liên kết, chó di chuyển đến điểm lùa $P_d$.
+- **Hình S3 (Mô hình lực Kubo)**: Lực đẩy giữa các chó giúp chúng tự động phân tán đều quanh bầy cừu.
+- **Hình S4 (Các trạm xuất phát của chó)**: Phía trên: các vòng cung đồng tâm từ $D = 1$ đến $64$. Phía dưới: ba hình thức xuất phát (`arcs`, `ring`, `handler`).
+- **Hình S5 (Cự ly ban đầu)**: Vòng tròn bán kính đe dọa $r_s = 65$; cừu xanh phản ứng ngay nhịp 0, cừu xám tiếp tục gặm cỏ.
+- **Hình S6 (Đối chiếu thực địa)**: So sánh bầy cừu thực địa của Jadhav et al. (2024) với bộ tham số mô phỏng cơ sở và bộ tham số thực địa GPS tại $N = 100$.
+- **Hình S7 (Cảnh bầy cừu được lùa)**: Đàn cừu $N = 100$ trong các kích thước mục tiêu $1,9$, $1,5$, $1,3$ và $1,1 R_f$.
+- **Hình S8 (Bố cục các biến thể độ nhạy)**: Cấu hình ban đầu của các biến thể phân tích độ nhạy trên bố cục `wide` tại $N = 200, D = 4$.
+- **Hình S9 (Kiểm tra tường biên phản xạ)**: So sánh tỷ lệ thành công khi có tường biên ở khoảng cách 80 và 250 so với không có tường.
+- **Hình S10 (Thử nghiệm sơ bộ - Pilot run)**: Khảo sát sơ bộ 10 hạt giống để xác định lưới kích thước đội và các mốc thời hạn.
+
+---
+
+## Phụ lục B. Nhật ký các lượt chạy (Appendix B. Record of Runs)
+
+| Giao thức | Số lượt thử | Số ô | Đã ngã ngũ | Chưa ngã ngũ ở giới hạn 200 | Lỗi | Số giờ chạy |
+|---|---|---|---|---|---|---|
+| dmin_m12 | 17.220 | 183 | 147 | 36 | 0 | 1,24 |
+| dmin_m6 | 11.625 | 180 | 165 | 15 | 0 | 0,41 |
+| dmin_m3 | 9.130 | 181 | 178 | 3 | 0 | 0,17 |
+| dmin_f99_m12 | 11.100 | 180 | 178 | 2 | 0 | 0,41 |
+| dmin_f99_m6 | 12.390 | 180 | 171 | 9 | 0 | 0,49 |
+| dmin_f99_m3 | 10.670 | 181 | 174 | 7 | 0 | 0,27 |
+| dmin_kubo | 1.080 | 18 | 18 | 0 | 0 | 0,08 |
+| dmin_s_base | 3.690 | 48 | 38 | 10 | 0 | 0,21 |
+| dmin_s_matched | 3.690 | 48 | 33 | 15 | 0 | 0,09 |
+| dmin_s_handler | 2.370 | 48 | 46 | 2 | 0 | 0,10 |
+| dmin_s_ring | 3.790 | 49 | 39 | 10 | 0 | 0,21 |
+| dmin_s_goal | 2.320 | 49 | 46 | 3 | 0 | 0,09 |
+| dmin_s_gap | 10.830 | 145 | 121 | 24 | 0 | 0,58 |
+| dmin_s_dogspeed | 2.620 | 50 | 49 | 1 | 0 | 0,11 |
+| dmin_f99_s_base | 3.360 | 48 | 46 | 2 | 0 | 0,16 |
+| dmin_f99_s_matched | 3.790 | 48 | 44 | 4 | 0 | 0,16 |
+| dmin_f99_s_dogspeed | 3.110 | 48 | 45 | 3 | 0 | 0,16 |
+| **Tổng cộng** | **112.785** | | | | **0** | |
+
+---
+
+## Phụ lục C. Thử nghiệm sơ bộ (Appendix C. Pilot)
+
+Tỷ lệ thành công trên bố cục `wide` trong đợt chạy thử nghiệm sơ bộ (10 hạt giống mỗi ô, không tường biên):
+
+| $N$ | Thời hạn | $D = 1$ | 2 | 3 | 4 | 6 | 8 | 12 | 16 |
+|---|---|---|---|---|---|---|---|---|---|
+| 200 | $3\times$ | 0,0 | 0,4 | 0,4 | 0,9 | 0,9 | 0,8 | 0,9 | 0,9 |
+| 200 | $6\times$ | 0,3 | 0,7 | 0,9 | 1,0 | 1,0 | 1,0 | 1,0 | 1,0 |
+| 200 | $12\times$ | 0,7 | 1,0 | 1,0 | 1,0 | 1,0 | 1,0 | 1,0 | 1,0 |
+| 400 | $3\times$ | 0,0 | 0,0 | 0,0 | 0,1 | 0,1 | 0,4 | 0,3 | 0,6 |
+| 400 | $6\times$ | 0,0 | 0,0 | 0,5 | 0,5 | 0,6 | 0,8 | 0,9 | 0,8 |
+| 400 | $12\times$ | 0,0 | 0,7 | 0,9 | 1,0 | 1,0 | 1,0 | 1,0 | 1,0 |
+
+---
+
+## Phụ lục D. So sánh hai mức tốc độ của chó (Appendix D. The Two Dog Speeds)
+
+Các lượt thử nghiệm với $D \ge 6$ trên lưới độ nhạy tại thời hạn $6\times$ drive times. Bán kính bầy cân bằng giữa hai lượt chạy chênh lệch dưới 1%, do đó kích thước mục tiêu và thời hạn là hoàn toàn tương đồng.
+
+| Bố cục, quy mô $N$ | Chó 1.5: Strict | Đạt mốc 99% | Trung vị giây đến 99% | Chó 1.15: Strict | Đạt mốc 99% | Trung vị giây đến 99% |
+|---|---|---|---|---|---|---|
+| wide 100 | 1,00 | 1,00 | 205 | 1,00 | 1,00 | 207 |
+| wide 200 | 0,94 | 1,00 | 268 | 1,00 | 1,00 | 277 |
+| wide 400 | 0,83 | 1,00 | 426 | 1,00 | 1,00 | 442 |
+| outlier_rich 100 | 0,99 | 1,00 | 210 | 1,00 | 1,00 | 213 |
+| outlier_rich 200 | 0,83 | 0,98 | 276 | 1,00 | 1,00 | 283 |
+| outlier_rich 400 | 0,68 | 0,99 | 460 | 1,00 | 1,00 | 448 |
+
+Tại bố cục `wide`, $N = 400$ với 12 chó, lượt thành công nghiêm ngặt cần trung vị 876 s đối với chó tốc độ 1.5 nhưng chỉ cần 444 s đối với chó tốc độ 1.15, và quãng đường đi trung vị của mỗi chó là 1.130 đơn vị so với 511 đơn vị. Dưới tiêu chí 99%, toàn bộ các lượt thử của chó tốc độ 1.15 với $D \ge 6$ đều thành công (240/240 lượt), so với 0,97 đến 1,00 của chó tốc độ 1.5 cơ sở, và thời gian hoàn thành trung vị chênh lệch không quá 4%.

diff --git a/README.md b/README.md
@@ -250,10 +250,10 @@ Statistical decisions are governed by [`analysis/frontier.py`](analysis/frontier
 To verify that findings reflect fundamental multi-agent dynamics rather than arbitrary parameter choices, HerdSim executed systematic sensitivity sweeps:
 
 ![Sensitivity of D_min across experimental variations](docs/figures/fig24_sensitivity.png)
-*Figure 13: Sensitivity analysis of D_min across experimental variants (N in {100, 200, 400}, wide and outlier-rich layouts at 6× drive time). Evaluates shepherd release geometry (handler post, full ring), start gap distance, goal radius, dog speed, and field-matched parameters.*
+*Figure 13: Sensitivity analysis of D_min across experimental variants (N in {100, 200, 400}, wide and outlier-rich layouts at 6× drive time). Rows above the horizontal divider test strict success; rows below test the 99% arrival threshold (f99). The baseline rows ("strict: base (speed 1.5)" and "99%: base (speed 1.5)") use default model parameters: dog speed 1.5, arcs release, gap 30, and goal radius 1.9 R_f.*
 
 1. **Release Geometry**: Releasing dogs from a single handler post (`handler`) requires fewer dogs than an encircling ring (`ring`), because ring dogs on the goal side can inadvertently frighten sheep backward before reaching their stations.
-2. **Dog Speed**: Counter-intuitively, slower dogs (v_dog = 1.15 vs 1.5) achieve lower D_min on large flocks under strict success rules. Fast dogs tend to drive the flock forcefully through the circular goal, causing overshoots that strand trailing sheep.
+2. **Dog Speed (Base 1.5 vs. 1.15)**: The baseline configuration runs at dog speed $v_{\text{dog}} = 1.5$ (shown in the `strict: base (speed 1.5)` and `99%: base (speed 1.5)` rows), while the `dog speed 1.15` rows evaluate reduced dog speed. Counter-intuitively, slower dogs ($v_{\text{dog}} = 1.15$) achieve substantially lower $D_{\min}$ on large flocks under strict success rules (e.g. on outlier-rich $N = 400$, $D_{\min}$ drops from failure/"none" at base speed 1.5 to $D_{\min} = 6$ at speed 1.15). Slower dogs avoid forcefully overshooting the goal and stranding trailing sheep.
 3. **Field-Matched Realism**: Calibrating sheep to empirical GPS field data (r_a = 1.0, interaction range 75 m, noise 0.1) halves the collection distance. Under strict 100% criteria, this ceiling suppresses success; under f99, field-matched sheep herd more efficiently than the synthetic baseline.
 
 ---
